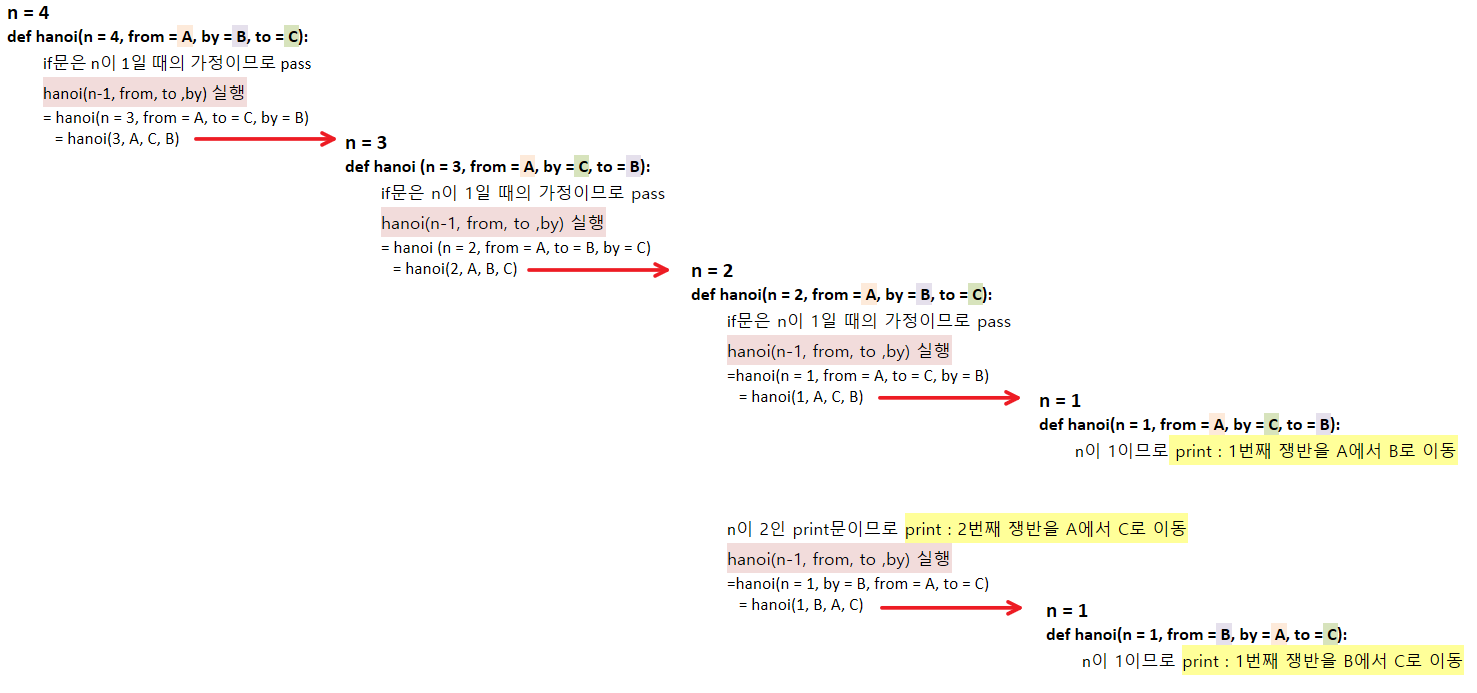
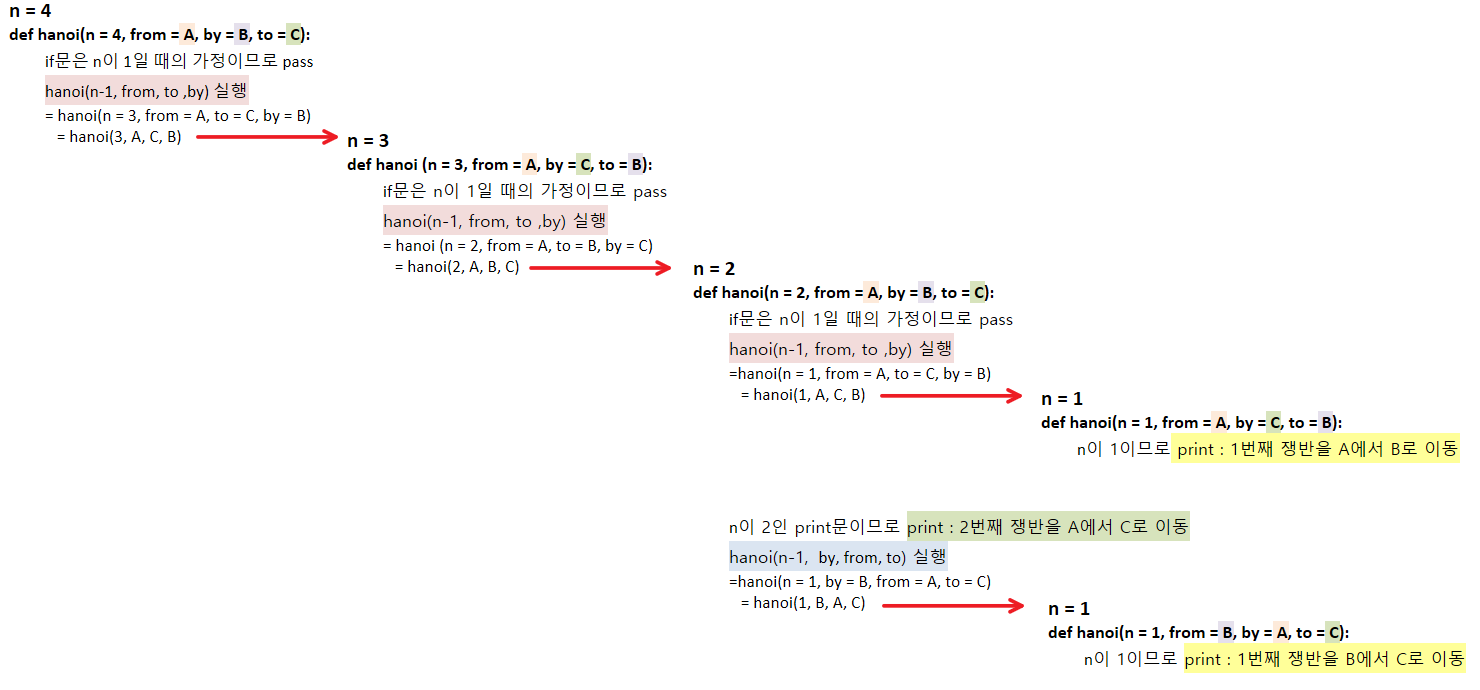
Site updated: 2019-04-26 21:00:59

diff --git a/2019/04/24/Hanoi tower/index.html b/2019/04/24/Hanoi tower/index.html
@@ -22,15 +22,16 @@
 <meta property="og:site_name">
 <meta property="og:description" content="하노이의 탑 세 개의 기둥과 이 기둥에 꽂을 수 있는 각각 다른 크기의 원판들이 있다. 처음에는 한 기둥에 원판이 아래부터 큰 순서대로 쌓여있다. 한 기둥에 꽂혀있는 원판들을 꽂혀있는 순서 그대로 다른 기둥으로 옮겨야 한다.  조건 한번에 하나의 원판만 움직일 수 있다. 큰 원판 위에 작은 원판이 올라갈 수 없다.">
 <meta property="og:locale" content="default">
-<meta property="og:image" content="http://hanhyunjin-mis.github.io/images/img/190424/hanoi1.png">
-<meta property="og:image" content="http://hanhyunjin-mis.github.io/images/img/190424/hanoi2.png">
-<meta property="og:image" content="http://hanhyunjin-mis.github.io/images/img/190424/hanoi3.png">
-<meta property="og:image" content="http://hanhyunjin-mis.github.io/images/img/190424/hanoi4.png">
-<meta property="og:updated_time" content="2019-04-24T12:02:05.852Z">
+<meta property="og:image" content="https://user-images.githubusercontent.com/37561451/56805643-b12c4e80-6864-11e9-86d8-fbed88536eb5.PNG">
+<meta property="og:image" content="https://user-images.githubusercontent.com/37561451/56805731-e769ce00-6864-11e9-9b02-316ade20bc1e.PNG">
+<meta property="og:image" content="https://user-images.githubusercontent.com/37561451/56805738-eb95eb80-6864-11e9-8a51-49d82bc50306.PNG">
+<meta property="og:image" content="https://user-images.githubusercontent.com/37561451/56805740-ecc71880-6864-11e9-8839-62b26c8d5142.PNG">
+<meta property="og:image" content="https://user-images.githubusercontent.com/37561451/56805742-ed5faf00-6864-11e9-9cc7-dd528a93975c.PNG">
+<meta property="og:updated_time" content="2019-04-26T11:51:11.809Z">
 <meta name="twitter:card" content="summary">
 <meta name="twitter:title" content="Hanoi tower">
 <meta name="twitter:description" content="하노이의 탑 세 개의 기둥과 이 기둥에 꽂을 수 있는 각각 다른 크기의 원판들이 있다. 처음에는 한 기둥에 원판이 아래부터 큰 순서대로 쌓여있다. 한 기둥에 꽂혀있는 원판들을 꽂혀있는 순서 그대로 다른 기둥으로 옮겨야 한다.  조건 한번에 하나의 원판만 움직일 수 있다. 큰 원판 위에 작은 원판이 올라갈 수 없다.">
-<meta name="twitter:image" content="http://hanhyunjin-mis.github.io/images/img/190424/hanoi1.png">
+<meta name="twitter:image" content="https://user-images.githubusercontent.com/37561451/56805643-b12c4e80-6864-11e9-86d8-fbed88536eb5.PNG">
 
 
 
@@ -147,7 +148,7 @@
         <span class="column is-narrow">
             
             
-            2 minutes read (About 236 words)
+            2 minutes read (About 267 words)
         </span>
         
     </div>
@@ -164,12 +165,13 @@
 <br><h3 id="코드"><a href="#코드" class="headerlink" title="코드"></a>코드</h3><figure class="highlight python hljs"><table><tr><td class="gutter"><pre><span class="line">1</span><br><span class="line">2</span><br><span class="line">3</span><br><span class="line">4</span><br><span class="line">5</span><br><span class="line">6</span><br><span class="line">7</span><br><span class="line">8</span><br><span class="line">9</span><br><span class="line">10</span><br></pre></td><td class="code"><pre><span class="line"><span class="hljs-function"><span class="hljs-keyword">def</span> <span class="hljs-title">hanoi</span><span class="hljs-params">(n, _from, _by, _to)</span>:</span> </span><br><span class="line">    <span class="hljs-comment"># base case</span></span><br><span class="line">    <span class="hljs-keyword">if</span> n == <span class="hljs-number">1</span>:</span><br><span class="line">        print(<span class="hljs-string">f'<span class="hljs-subst">&#123;n&#125;</span>번째 쟁반을 <span class="hljs-subst">&#123;_from&#125;</span>에서 <span class="hljs-subst">&#123;_to&#125;</span>로 이동'</span>)</span><br><span class="line">        <span class="hljs-keyword">return</span></span><br><span class="line">    hanoi(n<span class="hljs-number">-1</span>, _from, _to, _by)</span><br><span class="line">    print(<span class="hljs-string">f'<span class="hljs-subst">&#123;n&#125;</span>번째 쟁반을 <span class="hljs-subst">&#123;_from&#125;</span>에서 <span class="hljs-subst">&#123;_to&#125;</span>로 이동'</span>)</span><br><span class="line">    hanoi(n<span class="hljs-number">-1</span>, _by, _from, _to)</span><br><span class="line"></span><br><span class="line">hanoi(<span class="hljs-number">4</span>, <span class="hljs-string">'A'</span>, <span class="hljs-string">'B'</span>, <span class="hljs-string">'C'</span>)</span><br></pre></td></tr></table></figure>
 </li>
 </ol>
-<p><br></p>
+<p><img src="https://user-images.githubusercontent.com/37561451/56805643-b12c4e80-6864-11e9-86d8-fbed88536eb5.PNG" alt="hanoi"><br><br></p>
 <h3 id="풀이"><a href="#풀이" class="headerlink" title="풀이"></a>풀이</h3><p>코드가 이해가 가지 않아 직접 적어보았다…</p>
-<img src="/images/img/190424/hanoi1.png" width="800" title="test_title" alt="test_alt">  
-<img src="/images/img/190424/hanoi2.png" width="800" title="test_title" alt="test_alt">  
-<img src="/images/img/190424/hanoi3.png" width="800" title="test_title" alt="test_alt">  
-<img src="/images/img/190424/hanoi4.png" width="800" title="test_title" alt="test_alt">  
+<p><img src="https://user-images.githubusercontent.com/37561451/56805731-e769ce00-6864-11e9-9b02-316ade20bc1e.PNG" alt="hanoi1"></p>
+<p><img src="https://user-images.githubusercontent.com/37561451/56805738-eb95eb80-6864-11e9-8a51-49d82bc50306.PNG" alt="hanoi2"></p>
+<p><img src="https://user-images.githubusercontent.com/37561451/56805740-ecc71880-6864-11e9-8839-62b26c8d5142.PNG" alt="hanoi3"></p>
+<p><img src="https://user-images.githubusercontent.com/37561451/56805742-ed5faf00-6864-11e9-9cc7-dd528a93975c.PNG" alt="hanoi4"></p>
+
     
     </div>
     

diff --git a/2019/03/06/190306_git, web/index.html b/2019/03/06/190306_git, web/index.html
@@ -23,7 +23,7 @@
 <meta property="og:description" content="GitGit :  분산 버전 관리 시스템, 여러 개발자가 같은 프로젝트를 진행할 때 자신의 컴퓨터로 협업하면서 개발이 가능한 시스템이다.   git에는 로컬 저장소에 commit하기 전, index 단계가 있다. index 단계는 stage 영역이라고도  한다. stage 영역 : 작업한 내용을 로컬 저장소에 commit하려고 할 때, commit할 파일에">
 <meta property="og:locale" content="default">
 <meta property="og:image" content="http://hanhyunjin-mis.github.io/images/img/190306/Git.png">
-<meta property="og:updated_time" content="2019-04-23T11:34:50.878Z">
+<meta property="og:updated_time" content="2019-04-25T05:04:57.347Z">
 <meta name="twitter:card" content="summary">
 <meta name="twitter:title" content="190306_git, web">
 <meta name="twitter:description" content="GitGit :  분산 버전 관리 시스템, 여러 개발자가 같은 프로젝트를 진행할 때 자신의 컴퓨터로 협업하면서 개발이 가능한 시스템이다.   git에는 로컬 저장소에 commit하기 전, index 단계가 있다. index 단계는 stage 영역이라고도  한다. stage 영역 : 작업한 내용을 로컬 저장소에 commit하려고 할 때, commit할 파일에">
@@ -154,7 +154,7 @@
 <p>git에는 로컬 저장소에 commit하기 전, <code>index 단계</code>가 있다.</p>
 <p><code>index 단계</code>는 <code>stage 영역</code>이라고도  한다.</p>
 <p><code>stage 영역</code> : 작업한 내용을 로컬 저장소에 commit하려고 할 때, commit할 파일에 대한 정보를 저장하는 공간이다.</p>
-<p><br><br><a id="more"></a><br><img src="/images/img/190306/Git.png" width="700" title="test_title" alt="test_alt"></p>
+<p><br><br><a id="more"></a><br><img src="/images/img/190306/Git.png" width="700" title="test_title" alt="test_alt"> </p>
 <p><br></p>
 <h2 id="Commit-과정-발생한-에러"><a href="#Commit-과정-발생한-에러" class="headerlink" title="Commit 과정 발생한 에러"></a>Commit 과정 발생한 에러</h2><p>git bash로 git에 있는 폴더를 연결을 하다 에러가 났다.</p>
 <p>수업시간에 실습했던 것은 아무 파일이 없는 <code>새 폴더</code>였다.</p>

diff --git a/2019/04/24/190424-TIL/index.html b/2019/04/24/190424-TIL/index.html
@@ -14,15 +14,18 @@
 
 
 
-    <meta name="keywords" content="TIL">
+    <meta name="description" content="오늘 한 일 hanoi tower(하노이의 탑) 코드 작동원리 이해하기  link    오늘 느낀 점">
+<meta name="keywords" content="TIL">
 <meta property="og:type" content="article">
 <meta property="og:title" content="190424_TIL">
 <meta property="og:url" content="http://HanHyunJin-mis.github.io/2019/04/24/190424-TIL/index.html">
 <meta property="og:site_name">
+<meta property="og:description" content="오늘 한 일 hanoi tower(하노이의 탑) 코드 작동원리 이해하기  link    오늘 느낀 점">
 <meta property="og:locale" content="default">
-<meta property="og:updated_time" content="2019-04-24T11:49:04.665Z">
+<meta property="og:updated_time" content="2019-04-24T12:06:21.982Z">
 <meta name="twitter:card" content="summary">
 <meta name="twitter:title" content="190424_TIL">
+<meta name="twitter:description" content="오늘 한 일 hanoi tower(하노이의 탑) 코드 작동원리 이해하기  link    오늘 느낀 점">
 
 
 
@@ -139,13 +142,16 @@
         <span class="column is-narrow">
             
             
-            a few seconds read (About 0 words)
+            a few seconds read (About 29 words)
         </span>
         
     </div>
     <div class="article-entry is-size-6-mobile" itemprop="articleBody">
     
-        
+        <h2 id="오늘-한-일"><a href="#오늘-한-일" class="headerlink" title="오늘 한 일"></a>오늘 한 일</h2><ul>
+<li>hanoi tower(하노이의 탑) 코드 작동원리 이해하기<br>  <a href="/2019/04/24/Hanoi%20tower/">link</a>  </li>
+</ul>
+<h2 id="오늘-느낀-점"><a href="#오늘-느낀-점" class="headerlink" title="오늘 느낀 점"></a>오늘 느낀 점</h2>
     
     </div>
     

diff --git a/index.html b/index.html
@@ -138,7 +138,7 @@
         <span class="column is-narrow">
             
             
-            2 minutes read (About 236 words)
+            2 minutes read (About 267 words)
         </span>
         
     </div>
@@ -185,13 +185,16 @@
         <span class="column is-narrow">
             
             
-            a few seconds read (About 0 words)
+            a few seconds read (About 29 words)
         </span>
         
     </div>
     <div class="article-entry is-size-6-mobile" itemprop="articleBody">
     
-        
+        <h2 id="오늘-한-일"><a href="#오늘-한-일" class="headerlink" title="오늘 한 일"></a>오늘 한 일</h2><ul>
+<li>hanoi tower(하노이의 탑) 코드 작동원리 이해하기<br>  <a href="/2019/04/24/Hanoi%20tower/">link</a>  </li>
+</ul>
+<h2 id="오늘-느낀-점"><a href="#오늘-느낀-점" class="headerlink" title="오늘 느낀 점"></a>오늘 느낀 점</h2>
     
     </div>
     

diff --git a/categories/TIL/index.html b/categories/TIL/index.html
@@ -145,13 +145,16 @@
         <span class="column is-narrow">
             
             
-            a few seconds read (About 0 words)
+            a few seconds read (About 29 words)
         </span>
         
     </div>
     <div class="article-entry is-size-6-mobile" itemprop="articleBody">
     
-        
+        <h2 id="오늘-한-일"><a href="#오늘-한-일" class="headerlink" title="오늘 한 일"></a>오늘 한 일</h2><ul>
+<li>hanoi tower(하노이의 탑) 코드 작동원리 이해하기<br>  <a href="/2019/04/24/Hanoi%20tower/">link</a>  </li>
+</ul>
+<h2 id="오늘-느낀-점"><a href="#오늘-느낀-점" class="headerlink" title="오늘 느낀 점"></a>오늘 느낀 점</h2>
     
     </div>
     

diff --git a/tags/TIL/index.html b/tags/TIL/index.html
@@ -145,13 +145,16 @@
         <span class="column is-narrow">
             
             
-            a few seconds read (About 0 words)
+            a few seconds read (About 29 words)
         </span>
         
     </div>
     <div class="article-entry is-size-6-mobile" itemprop="articleBody">
     
-        
+        <h2 id="오늘-한-일"><a href="#오늘-한-일" class="headerlink" title="오늘 한 일"></a>오늘 한 일</h2><ul>
+<li>hanoi tower(하노이의 탑) 코드 작동원리 이해하기<br>  <a href="/2019/04/24/Hanoi%20tower/">link</a>  </li>
+</ul>
+<h2 id="오늘-느낀-점"><a href="#오늘-느낀-점" class="headerlink" title="오늘 느낀 점"></a>오늘 느낀 점</h2>
     
     </div>
     

diff --git a/categories/Algorithm/index.html b/categories/Algorithm/index.html
@@ -145,7 +145,7 @@
         <span class="column is-narrow">
             
             
-            2 minutes read (About 236 words)
+            2 minutes read (About 267 words)
         </span>
         
     </div>

diff --git a/tags/Algorithm/index.html b/tags/Algorithm/index.html
@@ -145,7 +145,7 @@
         <span class="column is-narrow">
             
             
-            2 minutes read (About 236 words)
+            2 minutes read (About 267 words)
         </span>
         
     </div>
